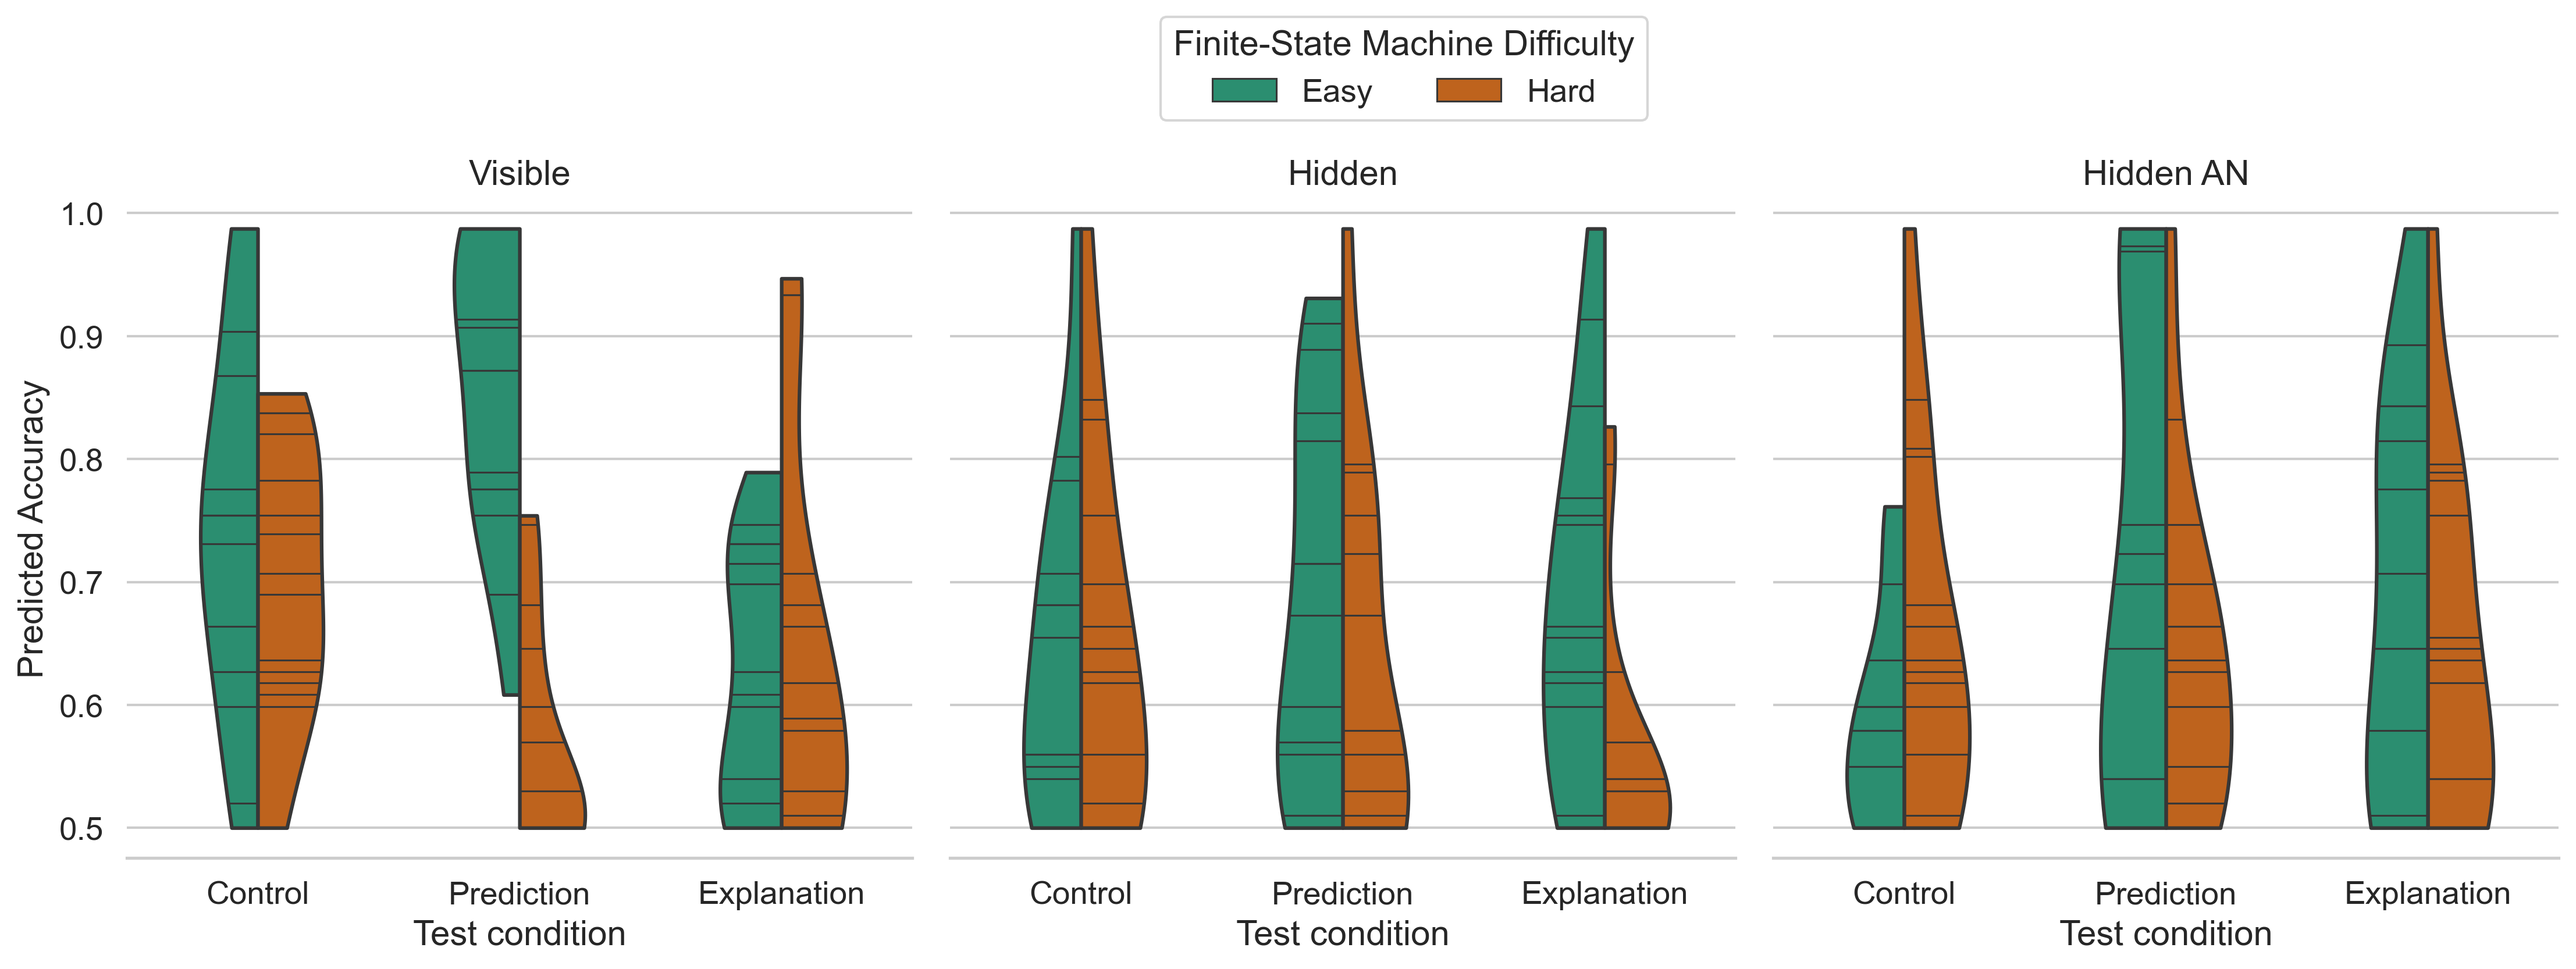
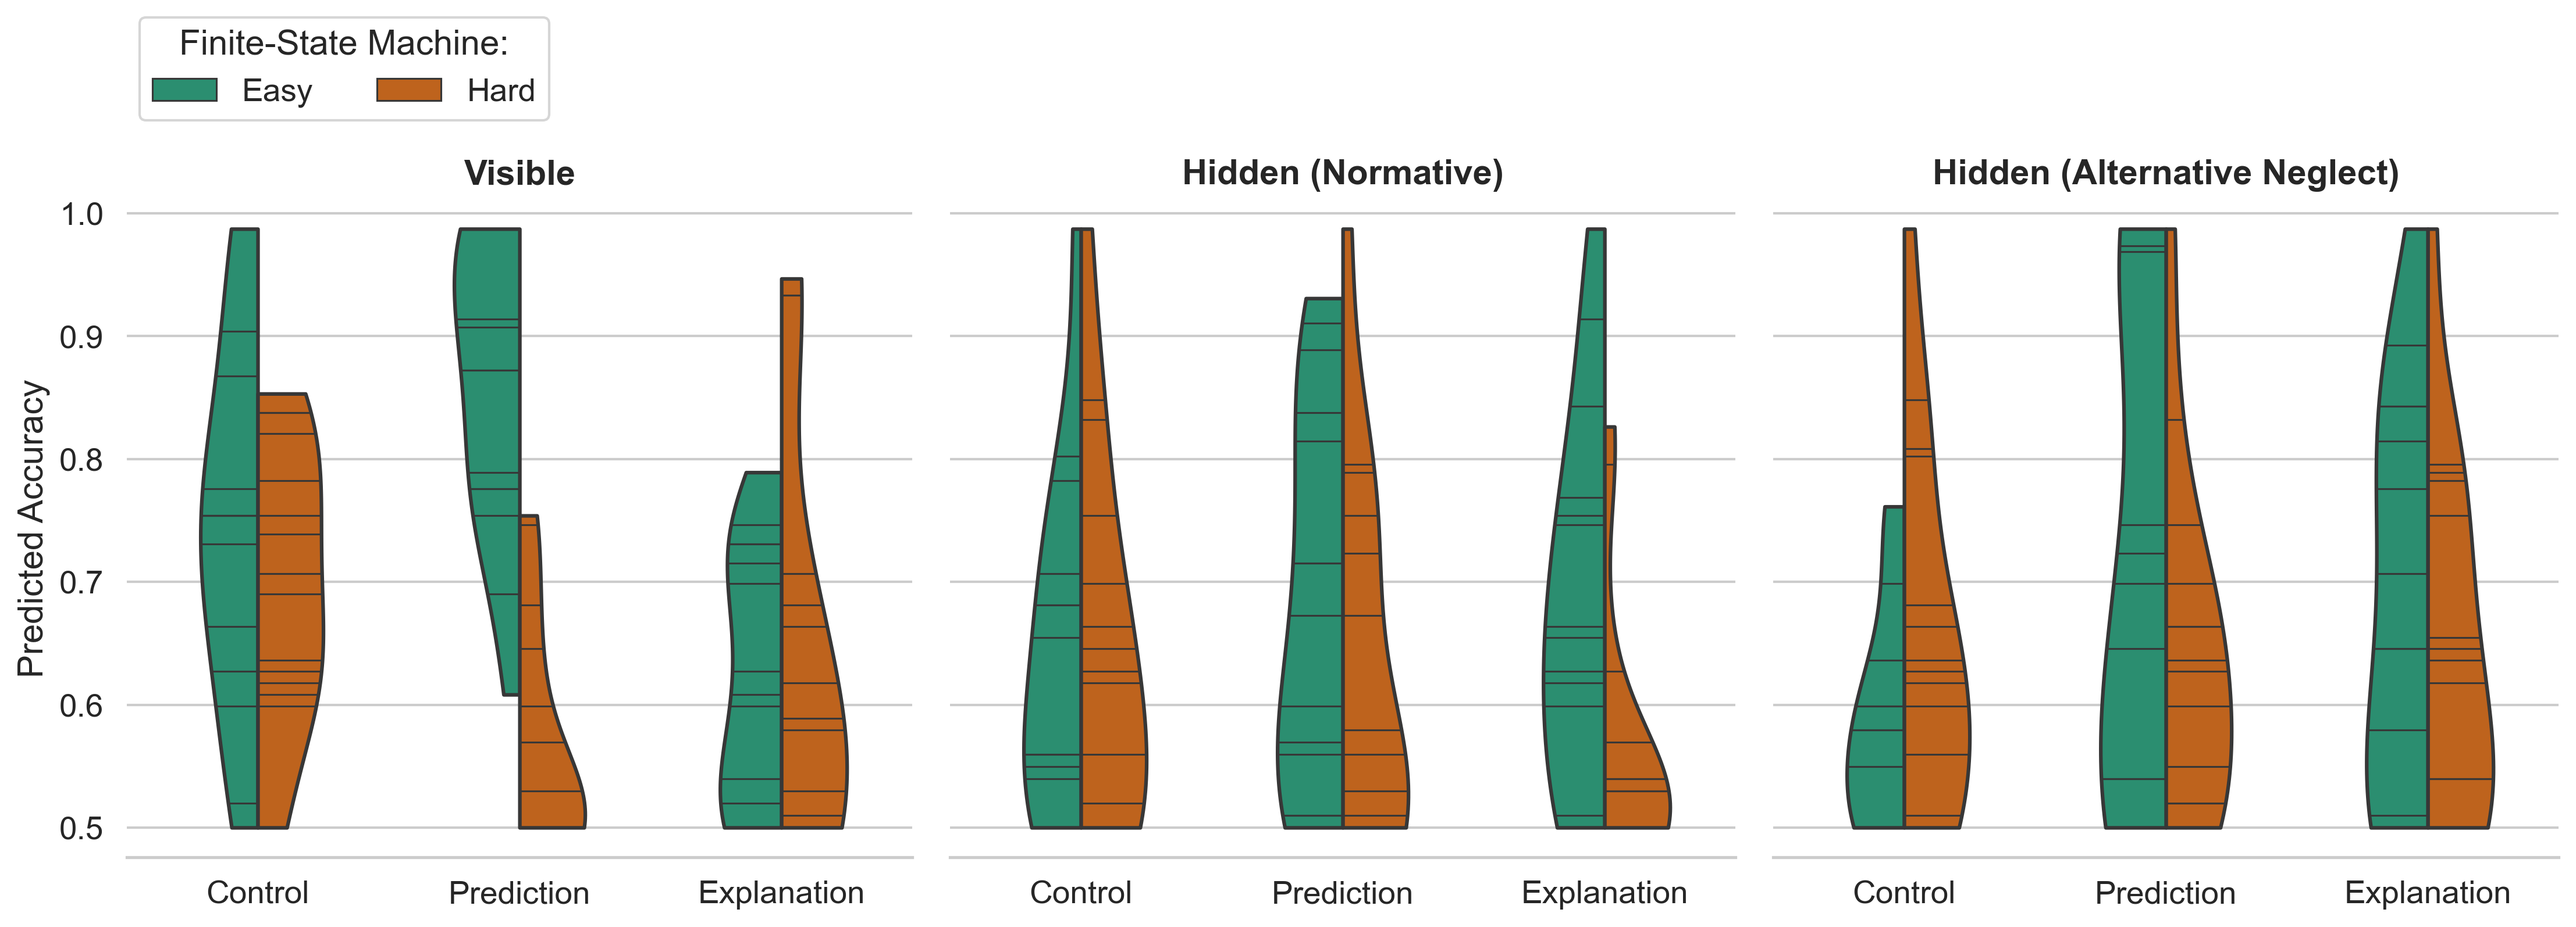
updated violin plots

diff --git a/python_scripts/6_plot_predicted_accuracy.py b/python_scripts/6_plot_predicted_accuracy.py
@@ -22,11 +22,14 @@ g = sns.catplot(data=ss_betas, x="task", y="predicted_accuracy", hue="difficulty
                 legend=False)
 
 # Customize plot
-g.set_axis_labels("Test condition", "Predicted Accuracy")
+g.set_axis_labels("", "Predicted Accuracy")
 g.set_titles(col_template="{col_name}", row_template="{row_name}")
+# make text of row titles bold
+for ax, title in zip(g.axes.flat, ["Visible", "Hidden (Normative)", "Hidden (Alternative Neglect)"]):
+    ax.set_title(title, fontweight="bold")
 
 g.despine(left=True)
-plt.legend(loc='upper left', bbox_to_anchor=(-0.8, 1.3), ncol=2, title="Finite-State Machine Difficulty")
+plt.legend(loc='upper left', bbox_to_anchor=(-2.1, 1.3), ncol=2, title="Finite-State Machine:")
 
 plt.savefig("../outputs/predicted_accuracy_alpha0.png", dpi=300, bbox_inches="tight")
 plt.show()
